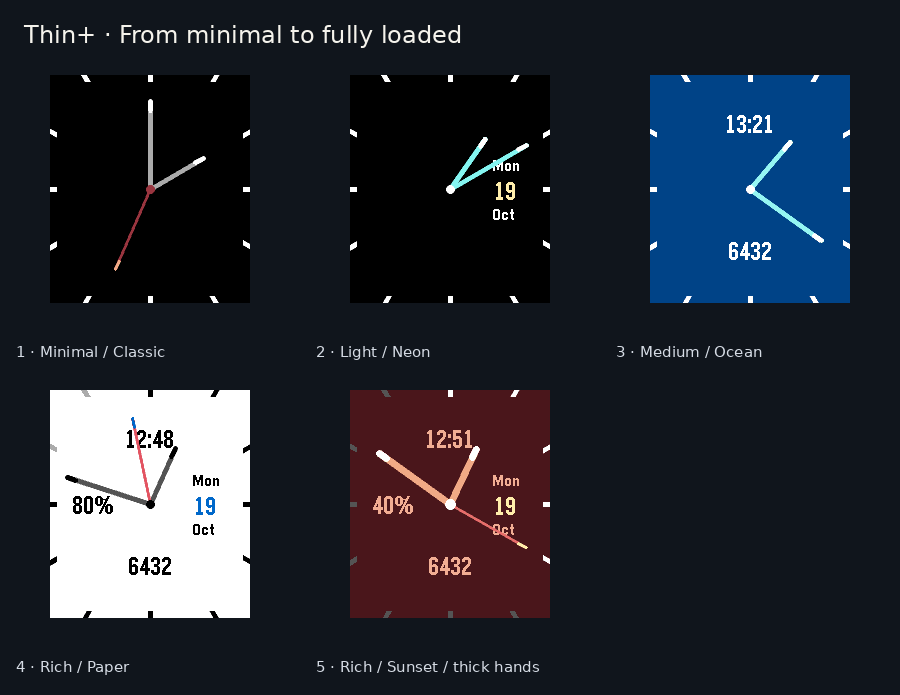
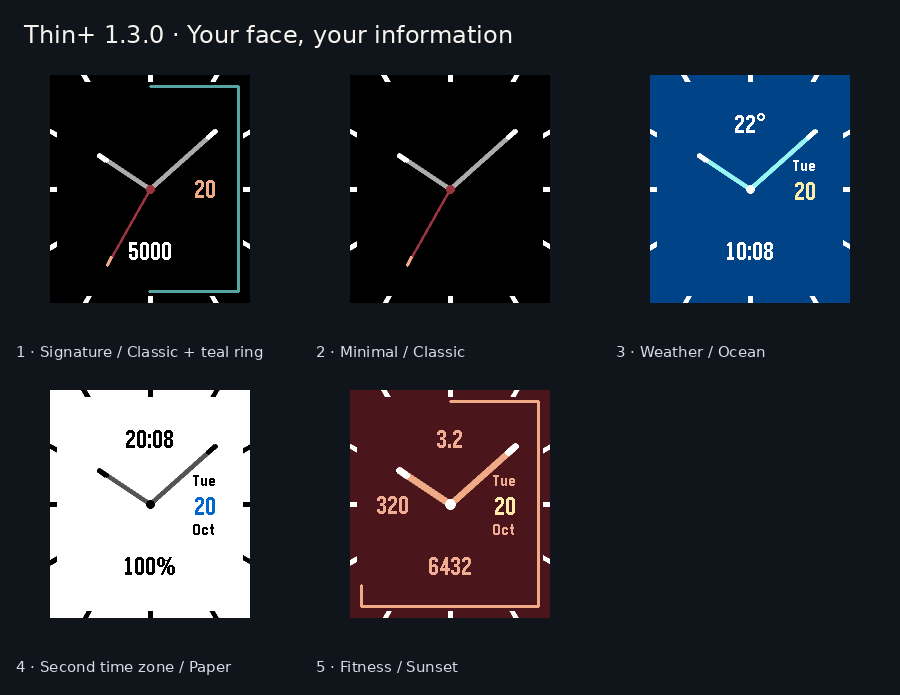
chore(thin-plus): refresh the 1.3.0 store screenshot gallery

diff --git a/watchfaces/thin-plus/store/tools/make-previews.py b/watchfaces/thin-plus/store/tools/make-previews.py
@@ -17,5 +17,5 @@ def sheet(names,title,path,cols=3):
         d.text((x+16,y+278),label,font=ImageFont.truetype(FONT,15),fill='#D5DBE4')
     im.save(ROOT/'store'/path)
 
-sheet([(f'emery-{i:02d}-{name}.png',label) for i,name,label in [(1,'classic-minimal','1 · Minimal / Classic'),(2,'neon-date-only','2 · Light / Neon'),(3,'ocean-medium','3 · Medium / Ocean'),(4,'paper-rich','4 · Rich / Paper'),(5,'sunset-rich','5 · Rich / Sunset / thick hands')]],'Thin+ · From minimal to fully loaded','preview-emery.png')
+sheet([('emery-01-classic-signature.png','1 · Signature / Classic + teal ring'),('emery-02-classic-minimal.png','2 · Minimal / Classic'),('emery-03-ocean-weather.png','3 · Weather / Ocean'),('emery-04-paper-second-time.png','4 · Second time zone / Paper'),('emery-05-sunset-fitness.png','5 · Fitness / Sunset')],'Thin+ 1.3.0 · Your face, your information','preview-emery.png')
 sheet([(p+'-classic-'+level+'.png',p.title()+' / '+level.title()) for p in ['gabbro','chalk','basalt','aplite','diorite','flint'] for level in ['minimal','medium','rich']],'Thin+ · Minimal, medium and rich on every platform','preview-platforms.png')

diff --git a/watchfaces/thin-plus/store/listing.md b/watchfaces/thin-plus/store/listing.md
@@ -103,13 +103,18 @@ Dashboard requirements supplied by Edward on 2026-10-19 after reading the New Ap
 - Optional per-platform banner: exactly 720×320, PNG/JPEG, maximum 4.4 MB.
 - The in-app menu icon remains 25×25.
 
-Emery upload order (five files):
+Emery upload order (five files), refreshed with owner approval on 2026-10-20:
 
-1. `screenshots/emery-01-classic-minimal.png` — minimal Classic; visible seconds hand and dark-red center dot, with date and complications hidden.
-2. `screenshots/emery-02-neon-date-only.png` — light Neon; date only.
-3. `screenshots/emery-03-ocean-medium.png` — medium Ocean; digital time and steps, with date and left slot hidden.
-4. `screenshots/emery-04-paper-rich.png` — rich Paper; digital time, battery, steps and date.
-5. `screenshots/emery-05-sunset-rich.png` — rich Sunset; all complications, thicker hands and 40% battery markers.
+1. `screenshots/emery-01-classic-signature.png` — Classic signature; teal goal ring at 50%, 5,000 steps toward a custom 10,000 goal, day-only date, seconds hand and dark-red center dot. Top and left slots hidden.
+2. `screenshots/emery-02-classic-minimal.png` — pure Classic; seconds and dark-red dot, with date, ring and all complications hidden.
+3. `screenshots/emery-03-ocean-weather.png` — Ocean; weather, digital time and weekday/day date.
+4. `screenshots/emery-04-paper-second-time.png` — Paper; second time zone, battery and Full date, with the left slot empty.
+5. `screenshots/emery-05-sunset-fitness.png` — Sunset; distance, active calories, steps, Full date, partial goal ring and thicker hands.
+
+All five are native 200×228 captures of the unchanged published 1.3.0 binary.
+Time, health values and weather are simulated demonstration data. This gallery
+update preserves other platforms, icons, banner, copy, release and visibility.
+[Capture and upload evidence](../dist/verification/1.3.0/gallery-refresh-2026-10-20/).
 
 Each other platform uses its `*-classic-minimal.png`, `*-classic-medium.png`, and `*-classic-rich.png` images in that order. Medium shows digital time and date. Rich enables all complication slots, subject to platform capabilities. The final selection and provenance are recorded in `screenshot-selection.json`: 23 native images total. Superseded images remain in `evidence/previous-screenshots/` for the approval audit.
 

diff --git a/watchfaces/thin-plus/store/manifest.md b/watchfaces/thin-plus/store/manifest.md
@@ -38,3 +38,16 @@ Listed visibility remains unchanged.
 Previous active manifest preserved at
 `../dist/verification/1.3.0/publication/pre-publication-store-manifest.md`.
 Historical release evidence and frozen PBWs are retained.
+
+## Gallery amendment — 2026-10-20
+
+The owner approved replacing only Emery's five screenshots with the 1.3.0
+feature gallery: Classic signature/teal ring first, pure Classic second,
+Ocean weather, Paper second time zone and Sunset fitness. Screenshot pixels
+come directly from the published binary's native SDK framebuffer. Inputs use
+simulated time, weather and activity values. No app source or PBW changed.
+
+Other platform galleries, icons, banner, listing copy, release and listed
+visibility were verified unchanged. Current selection and hashes are in
+[screenshot selection](screenshot-selection.json); earlier inventories remain
+historical. [Gallery verification](../dist/verification/1.3.0/gallery-refresh-2026-10-20/public-verification.json).

diff --git a/watchfaces/thin-plus/store/release-1.3.0.md b/watchfaces/thin-plus/store/release-1.3.0.md
@@ -119,3 +119,13 @@ opening settings and applying a theme. Both sideload and store-flow checks are
 complete. Source is recorded by `thin-plus-v1.3.0`; the missing 1.2.0 source
 snapshot is recorded separately by `thin-plus-v1.2.0`. Each tag is checked
 against the original released build-input hashes.
+
+## Gallery amendment — 2026-10-20
+
+After publication, the owner approved and uploaded a new five-image Emery
+gallery showing the 1.3.0 features. The approved order is Classic signature
+with teal step ring, pure Classic, Ocean weather, Paper second time zone and
+Sunset fitness. These supersede the Emery images in the original presentation
+review above. Other platform images, icons, banner, listing copy and release
+remain as originally approved. See the current `screenshot-selection.json` and
+[gallery evidence](../dist/verification/1.3.0/gallery-refresh-2026-10-20/).
